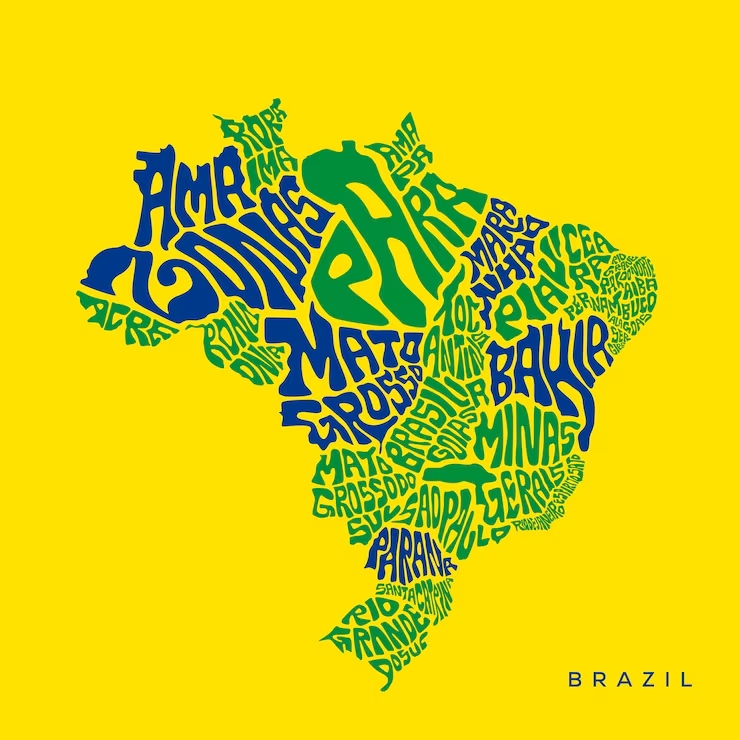
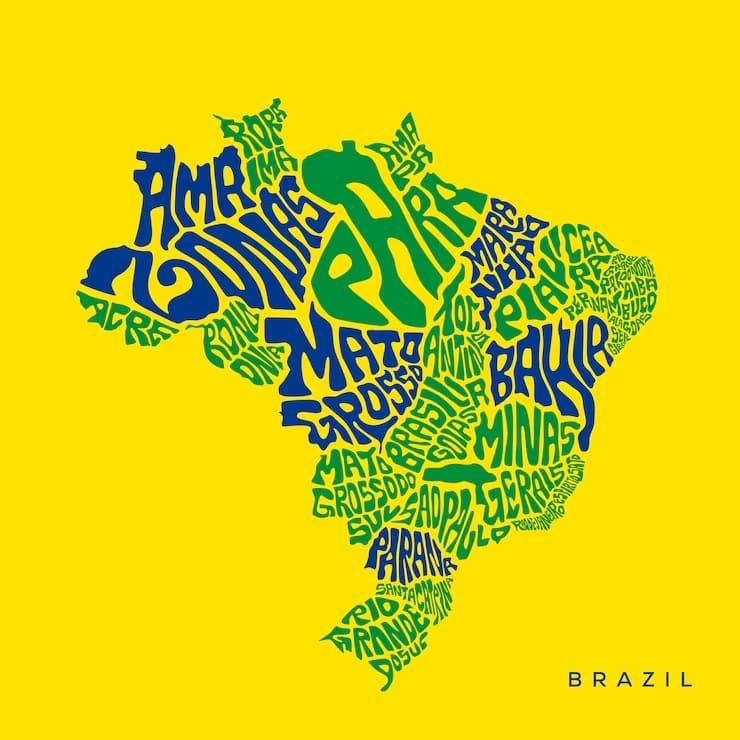
Update Brazil map image and enhance CSS styles for navigation and images

Changed region(s): [[0.0932, 0.1554, 0.9014, 0.9324], [0.5284, 0.1554, 0.6216, 0.2797], [0.777, 0.9014, 0.9014, 0.9324]]

diff --git a/styles/styles.css b/styles/styles.css
@@ -1,5 +1,28 @@
+nav {
+  background-color: darkblue;
+  padding: 10px;
+}
+
+nav a {
+  color: white;
+  display: block;
+  padding: 20px;
+}
+
 main {
   max-width: 840px;
+}
+
+h1 {
+  color: darkblue;
+}
+
+img {
+  width: 150px;
+  height: auto;
+  border: 1px solid black;
+  padding: 2px;
+  box-shadow: 0 0 30px gray;
 }
 
 main img {
